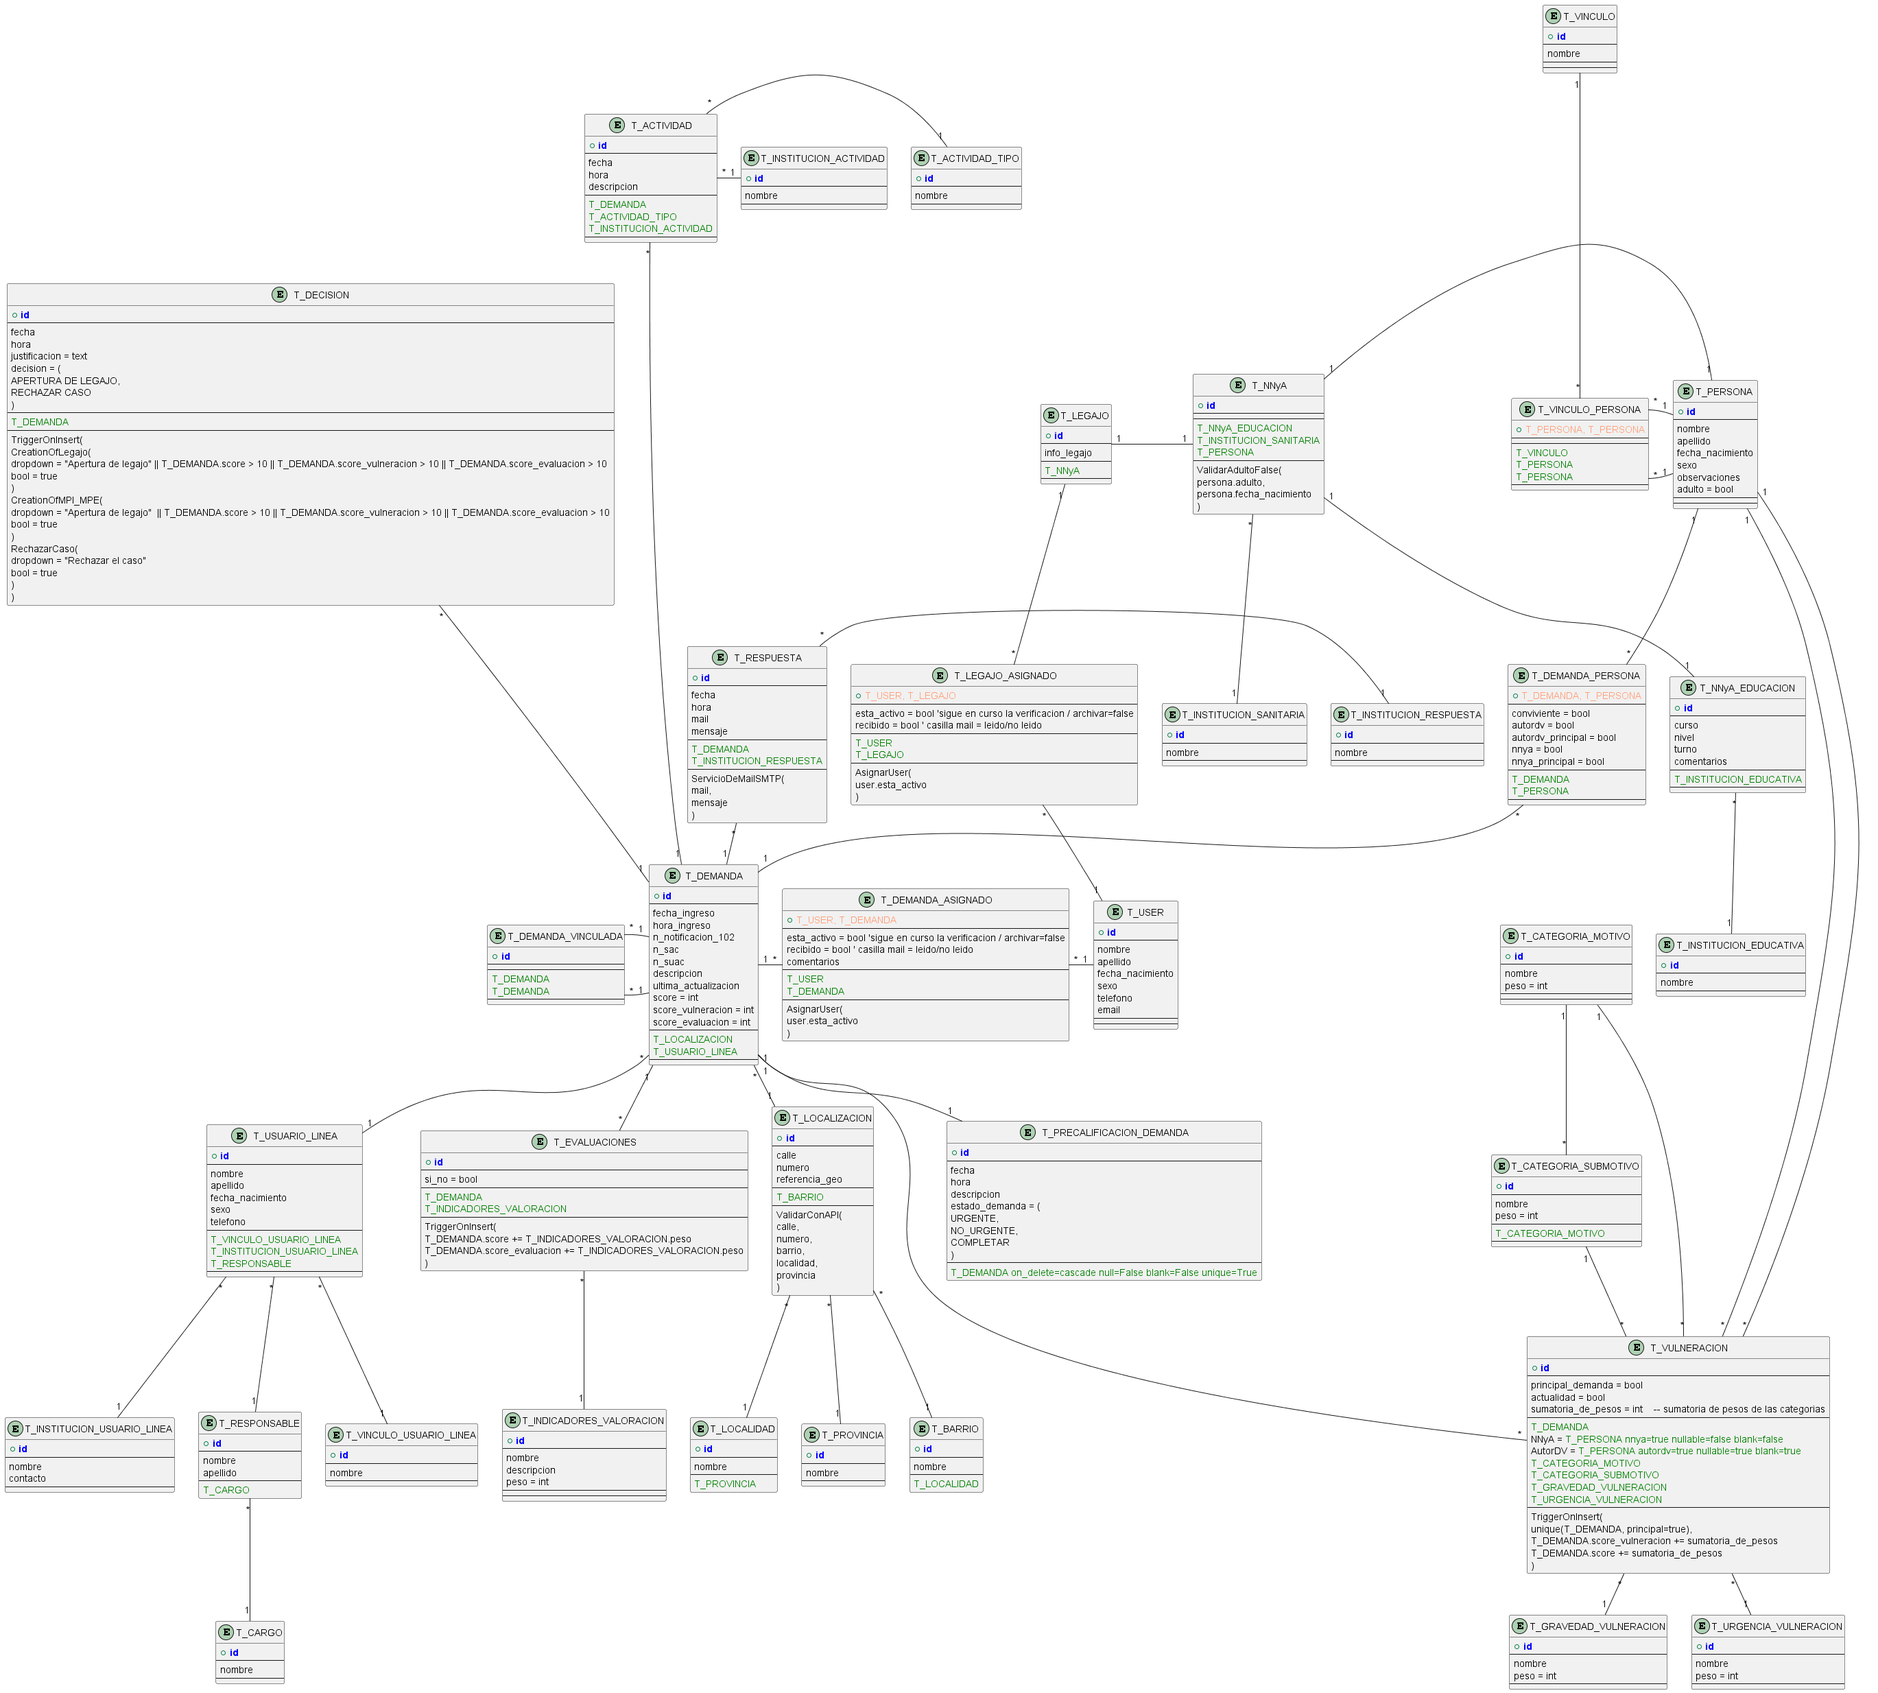
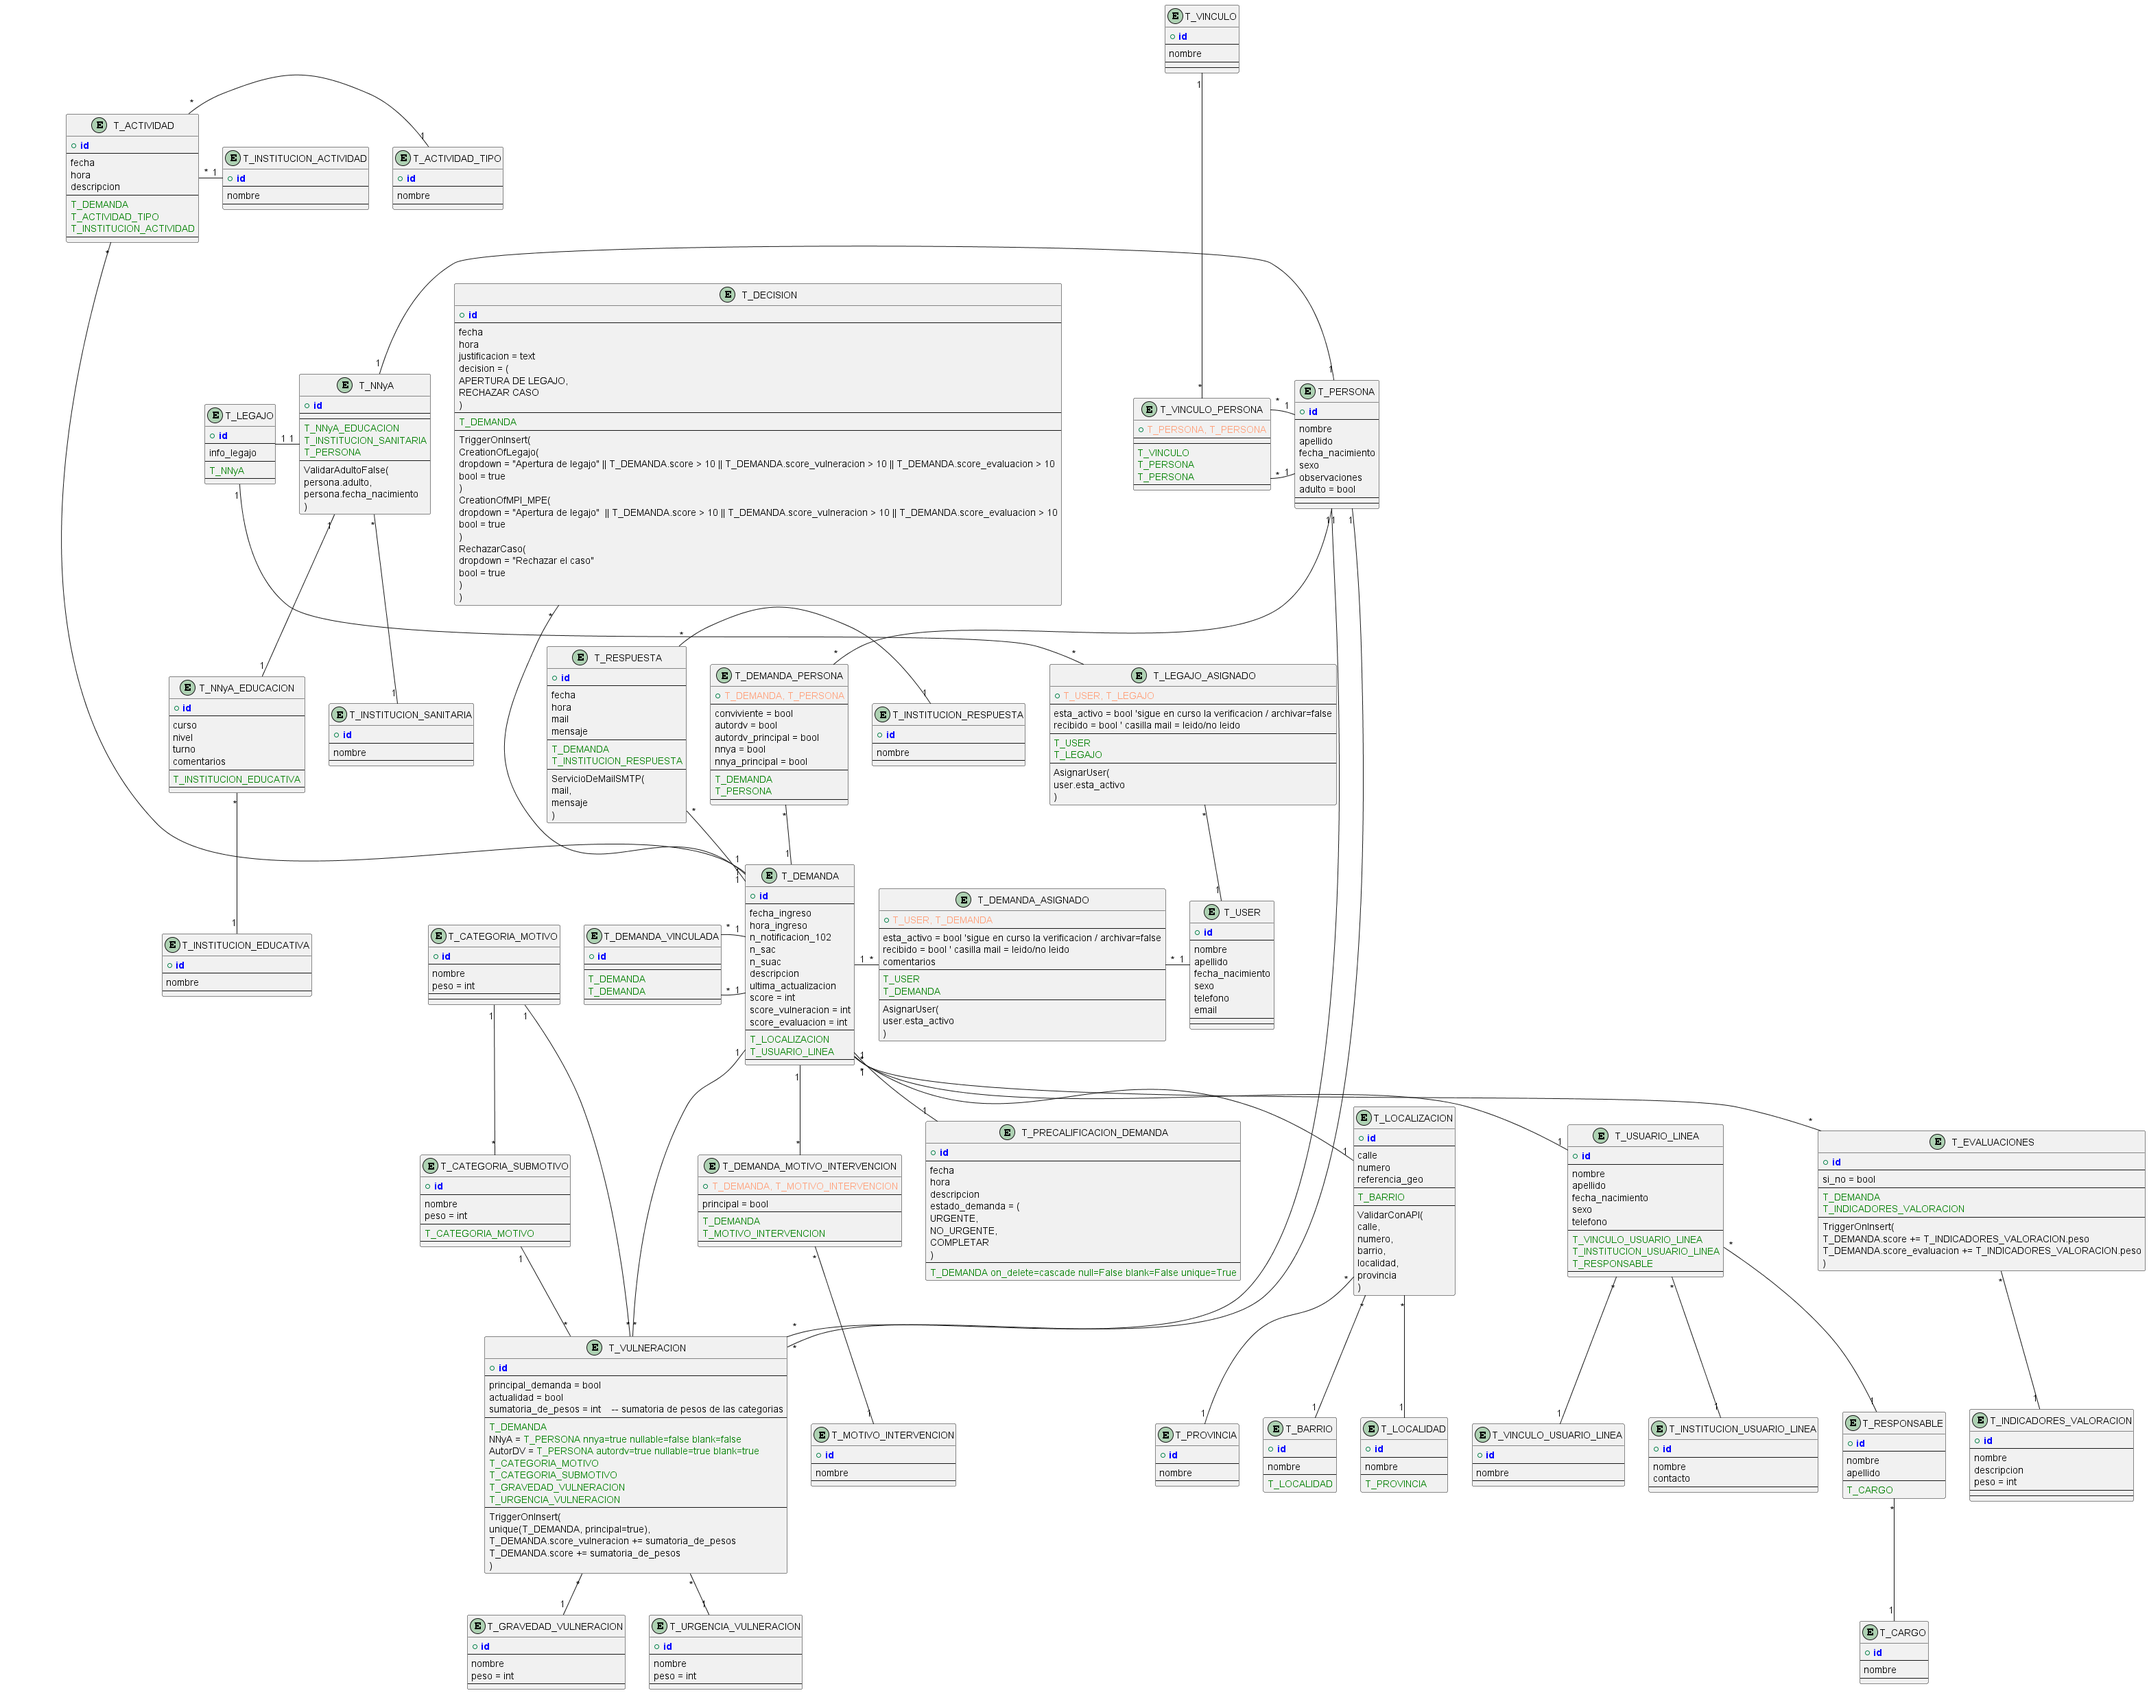
Motivo de Intervencion

diff --git a/runna/infrastructure/models.py b/runna/infrastructure/models.py
@@ -81,6 +81,8 @@ class TPrecalificacionDemanda(models.Model):
     estado_demanda = models.CharField(max_length=20, choices=estado_demanda_choices)
     demanda = models.OneToOneField('TDemanda', on_delete=models.CASCADE, unique=True, null=False, blank=False)
 
+    history = HistoricalRecords()
+
 class TPersona(models.Model):
     nombre = models.CharField(max_length=255)
     apellido = models.CharField(max_length=255)
@@ -99,6 +101,8 @@ class TDemandaPersona(models.Model):
     autordv_principal = models.BooleanField()
     nnya = models.BooleanField()
     nnya_principal = models.BooleanField()
+
+    history = HistoricalRecords()
 
 class TNNyA(models.Model):
     persona = models.ForeignKey('TPersona', on_delete=models.CASCADE)
@@ -301,5 +305,15 @@ class TInstitucionActividad(models.Model):
 
 class TInstitucionRespuesta(models.Model):
     nombre = models.CharField(max_length=255)
+
+    history = HistoricalRecords()
+class TMotivoIntervencion(models.Model):
+    nombre = models.CharField(max_length=255)
+
+    history = HistoricalRecords()
+
+class TDemandaMotivoIntervencion(models.Model):
+    demanda = models.ForeignKey('TDemanda', on_delete=models.CASCADE)
+    motivo_intervencion = models.ForeignKey('TMotivoIntervencion', on_delete=models.CASCADE)
 
     history = HistoricalRecords()

diff --git a/docs/db/metodos.md b/docs/db/metodos.md
@@ -21,3 +21,4 @@
 - Validar que el nnya de la vulneración tenga relación con la demanda así como también el autordv con la demanda
 - Validar que T_MOTIVO_VULNERACION_DDV seleccionado pertenezca al mismo T_DDV seleccionado (es decir ingresado)
 - Validar que la evaluación sea realizable solo si los *indicadores de valoración de Amenaza/Vulneración de Derechos respecto la demanda* seleccionada fueron respondidos
+- Validar que haya un único motivo de intervención principal por demanda
